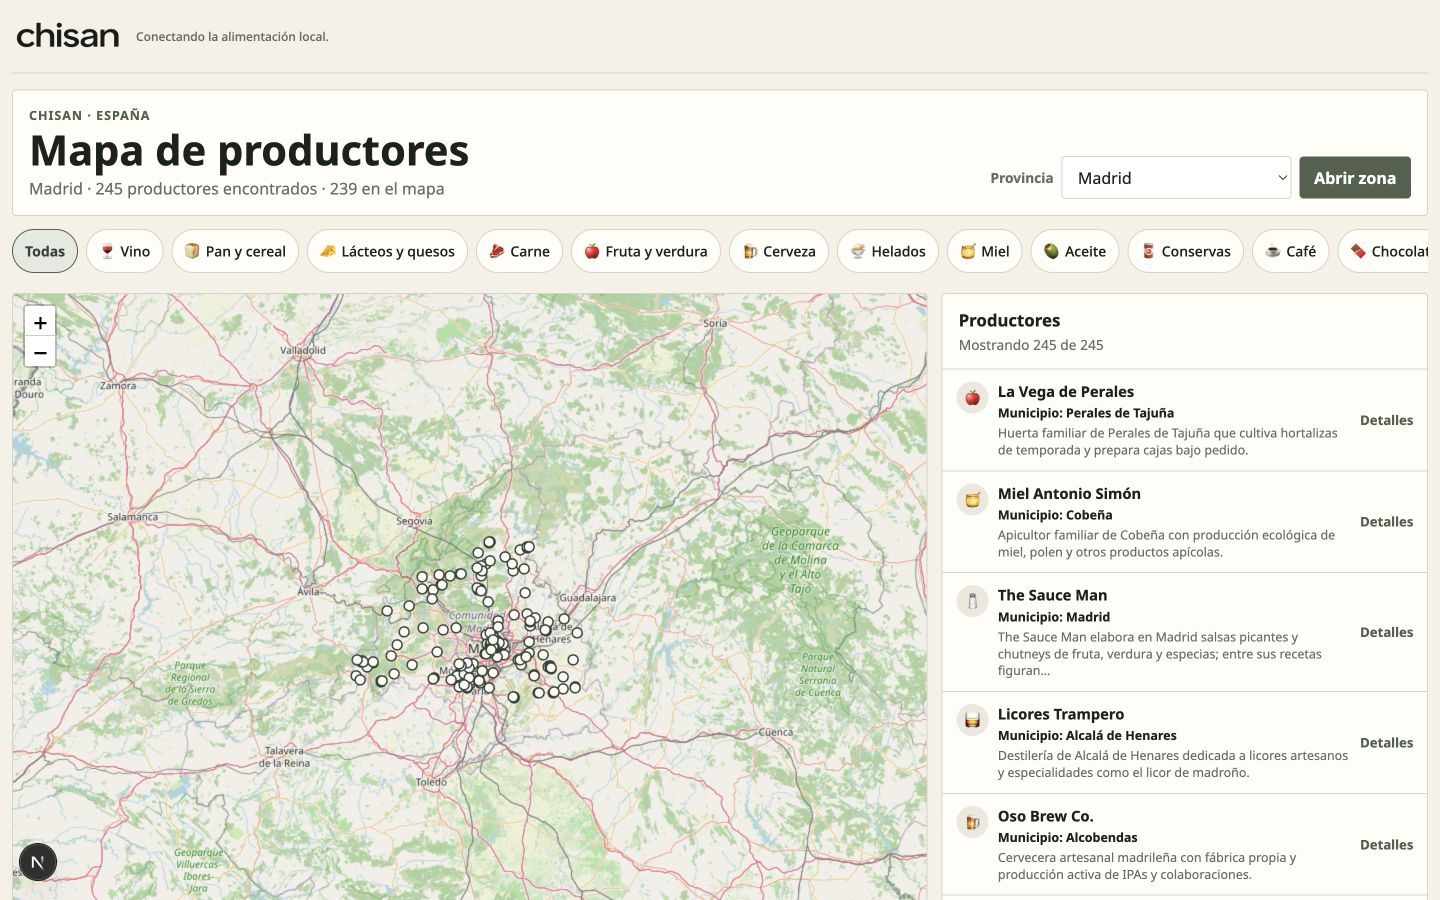
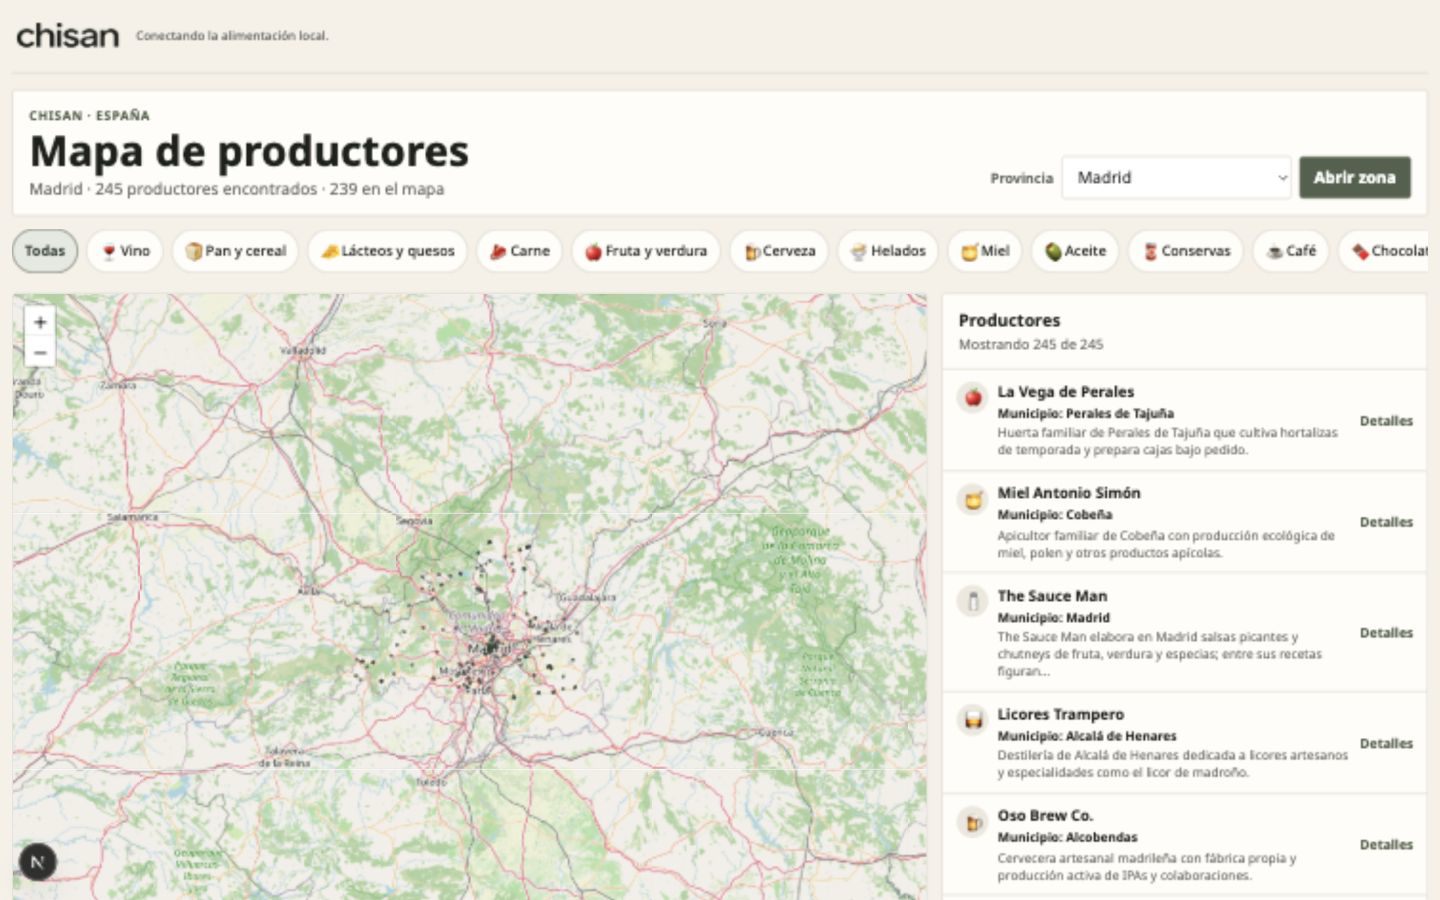
fix(design): refine producer map dots

diff --git a/components/map/producers-map-inner.tsx b/components/map/producers-map-inner.tsx
@@ -140,11 +140,20 @@ function BoundsAwareMarkers({
           <CircleMarker
             key={`${point.key}:${highlighted ? "selected" : "default"}`}
             center={[point.latitude, point.longitude]}
-            radius={highlighted ? 8 : 5}
+            radius={highlighted ? 4 : 2}
             pathOptions={{
               className: highlighted
                 ? "producer-map-circle producer-map-circle--highlighted"
                 : "producer-map-circle",
+              color: highlighted
+                ? "var(--chisan-color-surface)"
+                : "var(--chisan-color-moss-dark)",
+              fillColor: highlighted
+                ? "var(--chisan-color-moss)"
+                : "var(--chisan-color-moss-dark)",
+              fillOpacity: highlighted ? 1 : 0.64,
+              opacity: highlighted ? 1 : 0,
+              weight: highlighted ? 2 : 0,
             }}
           >
             <Tooltip direction="top" offset={[0, -8]} opacity={0.96}>

diff --git a/design/adapters/web.css b/design/adapters/web.css
@@ -129,10 +129,11 @@ body {
 
 /* Exact producer field: map-native circles stay at the catalog coordinate. */
 .producer-map-circle {
-  fill: var(--chisan-color-surface);
-  fill-opacity: 0.96;
+  fill: var(--chisan-color-moss-dark);
+  fill-opacity: 0.64;
   stroke: var(--chisan-color-moss-dark);
-  stroke-width: 1.5px;
+  stroke-opacity: 0;
+  stroke-width: 0;
   vector-effect: non-scaling-stroke;
 }
 
@@ -140,8 +141,8 @@ body {
   fill: var(--chisan-color-moss);
   fill-opacity: 1;
   stroke: var(--chisan-color-surface);
-  stroke-width: 3px;
-  filter: drop-shadow(0 0 1px var(--chisan-color-moss-dark));
+  stroke-opacity: 1;
+  stroke-width: 2px;
 }
 
 .leaflet-control-attribution {

diff --git a/design/qa/design-qa.md b/design/qa/design-qa.md
@@ -65,10 +65,10 @@ comparison. The selected and mobile Chisan states were then inspected together.
 - AllTrails informed the compact circle grammar and selected-state hierarchy;
   Chisan keeps its own pine, moss and rice-paper tokens and does not adopt
   clustered count pills.
-- Every default point is a map-native 10 px circle with a rice-paper fill and a
-  1.5 px pine outline, centred on its exact coordinate. Dense areas remain a
-  legible field of individual producers.
-- The selected circle grows to 16 px, fills with moss and gains a 3 px
+- Every default point is a map-native 4 px solid pine circle at 64% opacity,
+  centred on its exact coordinate. Dense areas read as a field of quiet points
+  rather than outlined objects.
+- The selected circle grows to 8 px, fills with moss and gains a 2 px
   rice-paper outline without changing position.
 - All 23 category options remain present in one horizontal icon-and-label rail.
   The rail scrolls on narrow screens while the map keeps visual priority.
@@ -99,6 +99,11 @@ comparison. The selected and mobile Chisan states were then inspected together.
   the map feel too branded and reduced the speed of reading locations. Resolved
   after user review by replacing it with compact map-native circles and
   removing the superseded runtime marker asset.
+- P1: the first circle pass used 10 px hollow points, which remained too large
+  at Madrid density, and the generated SVG paths retained Leaflet's blue
+  default attributes beneath the design CSS. Resolved after user review with
+  4 px solid pine points, an 8 px selected state, and explicit token-backed
+  Leaflet path colours so no blue fallback remains.
 - P2: the first mobile category-rail override extended the document by 6 px.
   Resolved by matching the rail bleed to the catalog page inset; the final
   390 px viewport measures a 390 px document width.

diff --git a/design/DESIGN_LANGUAGE.md b/design/DESIGN_LANGUAGE.md
@@ -138,9 +138,9 @@ The map is a factual field, not a summary graphic.
 
 - Every mapped producer is represented by one point at its exact coordinate.
 - Do not cluster, aggregate, jitter, offset or replace producers with heatmaps.
-- At overview scale, each producer is a 10 px circle with a rice-paper fill and
-  a 1.5 px pine outline, centred on the exact coordinate.
-- Only the selected producer grows to 16 px, fills with moss and gains a 3 px
+- At overview scale, each producer is a 4 px pine circle at reduced opacity,
+  centred on the exact coordinate with no contrasting outline.
+- Only the selected producer grows to 8 px, fills with moss and gains a 2 px
   rice-paper outline; selection never changes position.
 - Land is rice paper, controls are surface, geometry is hairline and labels are stone.
 - Categories remain visible in one horizontally scrollable filter bar with one
